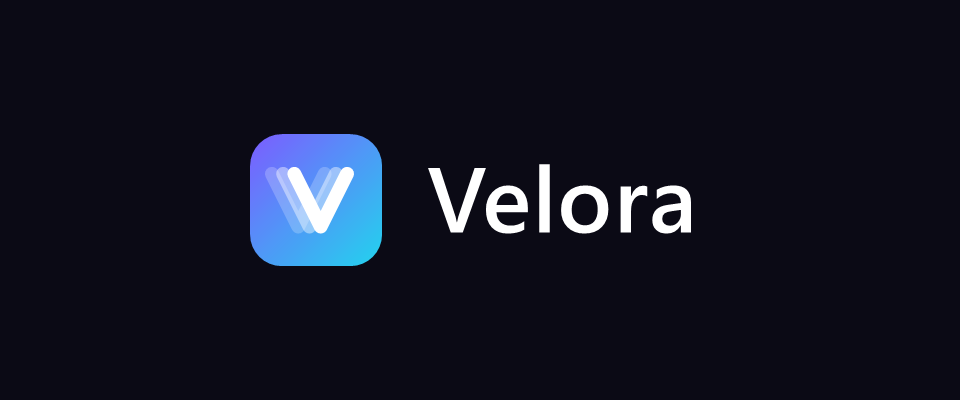
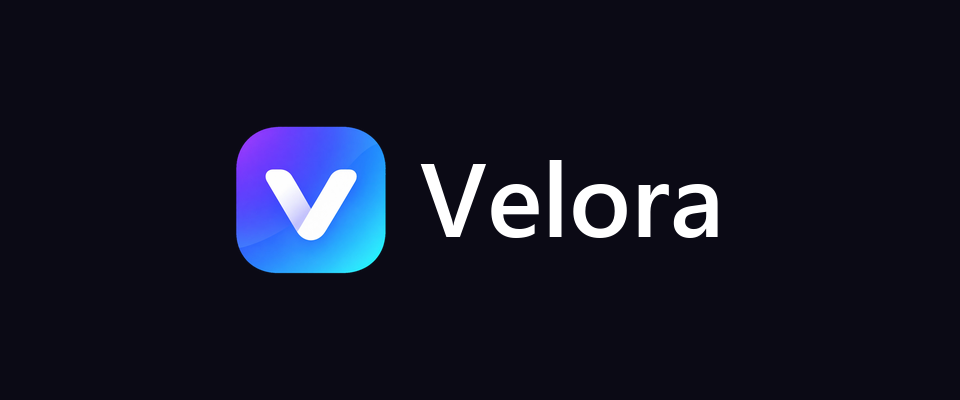
Add files via upload

Changed region(s): [[0.2188, 0.3, 0.4062, 0.69], [0.4375, 0.39, 0.75, 0.6]]

diff --git a/README.md b/README.md
@@ -256,14 +256,18 @@ cd payload/ps5
 PS5_PAYLOAD_SDK=/path/to/ps5-payload-sdk make velora   # payload/build/velora-payload.elf
 ```
 
-After changing the dashboard or banner:
+The logo lives in `app/res/velora_logo.png`. After changing it, remake
+everything that shows it (exe icon, Discord asset, banners, the app's and the
+dashboard's mark) and re-embed the payload's web assets:
 
 ```bash
+python app/tools/make_velora_brand.py
 powershell -File tools/make_velora_payload_assets.ps1
 node tools/gen_blobs.js
 ```
 
-The icon and logo come from `app/tools/make_velora_icon.ps1`.
+`app/tools/cut_velora_logo.py` cuts a new artwork out of a flattened
+checkerboard background.
 
 ## Troubleshooting
 
